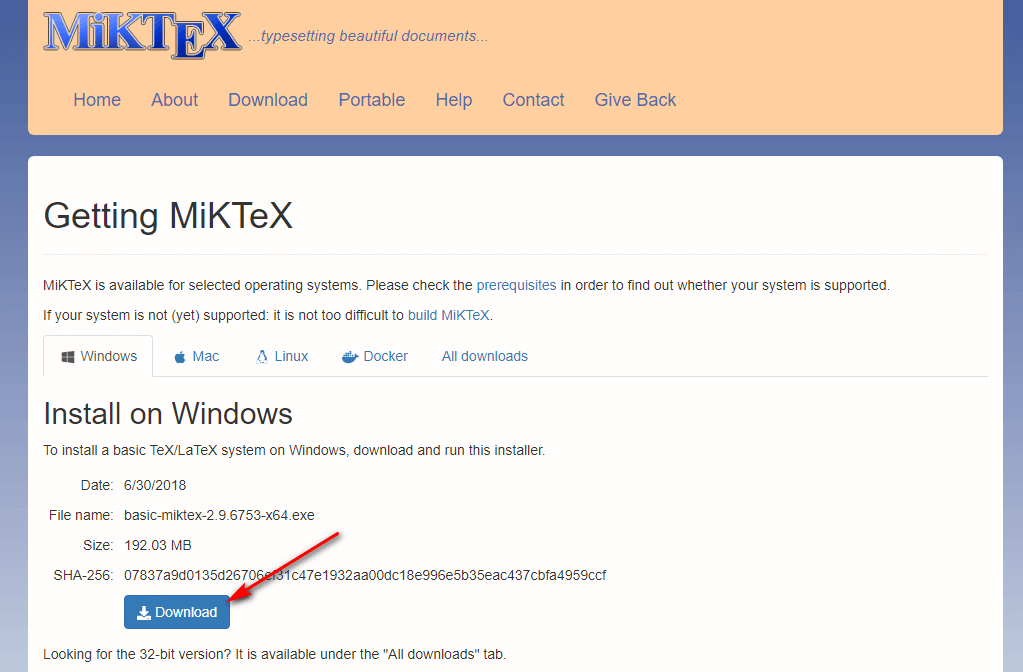
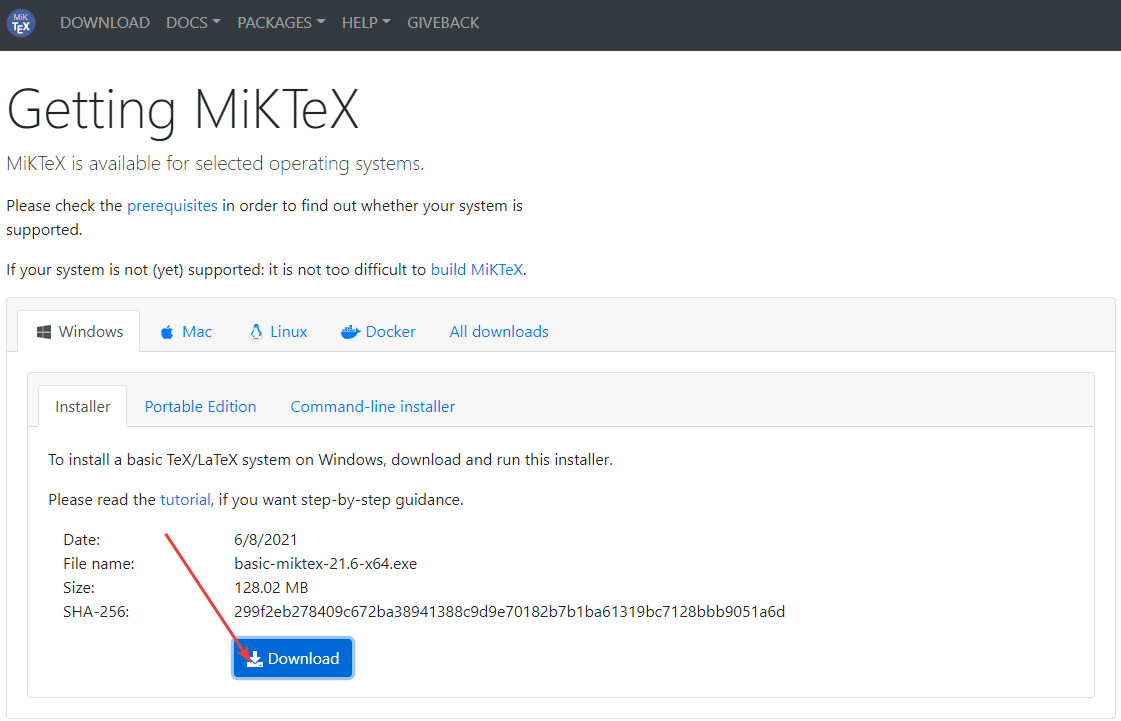
Update article "Установка и настройка программ для редактирования LaTeX файлов"

diff --git a/2018-08-03-install-latex/2018-08-03-install-latex.md b/2018-08-03-install-latex/2018-08-03-install-latex.md
@@ -2,13 +2,14 @@
 categories: [it, tex]
 tags: [LaTeX, Установка]
 latex: true
+update: 2021-07-24
 ---
 
 # Установка и настройка программ для редактирования LaTeX файлов
 
 В данной инструкции даются подробные указания для установки связки MiKTeX + TeXstudio + pscyr на примере чистой системы Windows 7 64 bit (и замечаниями под Windows 8.1). После установки вы получите полноценную систему для редактирования и компиляции LaTeX файлов расширения `*.tex`.
 
-Статья обновлена и переписана в 2018 со статьи 2013 года.
+Статья обновлена и переписана в 2021 со статьи 2013 года.
 
 ## Общие сведения
 
@@ -140,11 +141,13 @@ latex: true
 
 Проблем с установкой не должно возникнуть:
 
-![Установка TeXstudio](img/install-texstudio_02.png)
+![Начало установки](img/install-texstudio_02.png)
 
 ![Установка TeXstudio](img/install-texstudio_03.png)
 
 ![Установка TeXstudio](img/install-texstudio_04.png)
+
+![Установка TeXstudio](img/install-texstudio_05.png)
 
 После установки запустите программу:
 
